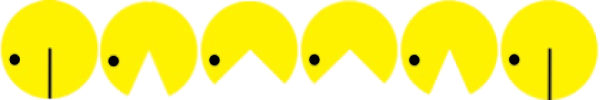
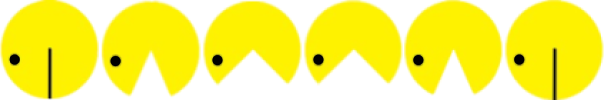
Updated images

Changed region(s): [[0.2673, 0.0, 1.0, 1.0], [0.1485, 0.0, 0.2673, 0.96], [0.2673, 0.03, 0.297, 0.12]]

diff --git a/game-source-code/Screen.cpp b/game-source-code/Screen.cpp
@@ -105,8 +105,8 @@ void Screen::drawPacMan(const PacMan& pacman, int frame, int direction) {
 // Function to draw Pac-Man at a specific location and frame, based on the current direction
 void Screen::drawSuperPacMan(const PacMan& pacman, int frame, int direction) {
     float renderRadius = 50;
-    double pixelX = pacman.getX() - 30;  // Adjust X position
-    double pixelY = pacman.getY() - 30;  // Adjust Y position
+    double pixelX = pacman.getX() - 50;  // Adjust X position
+    double pixelY = pacman.getY() - 50;  // Adjust Y position
 
     // Select the appropriate texture based on the direction Pac-Man is moving
     Texture2D texture = pacManTexturesBig[0];  // Default texture is for moving left

diff --git a/game-source-code/Game.cpp b/game-source-code/Game.cpp
@@ -335,11 +335,8 @@ void Game::update() {
             stars->collect();
             stars->markAsEaten();
             screen->setSymbolActive(false);
-            
-            // Increase score or trigger other game events
         }
     }
-    
 }
 
 
